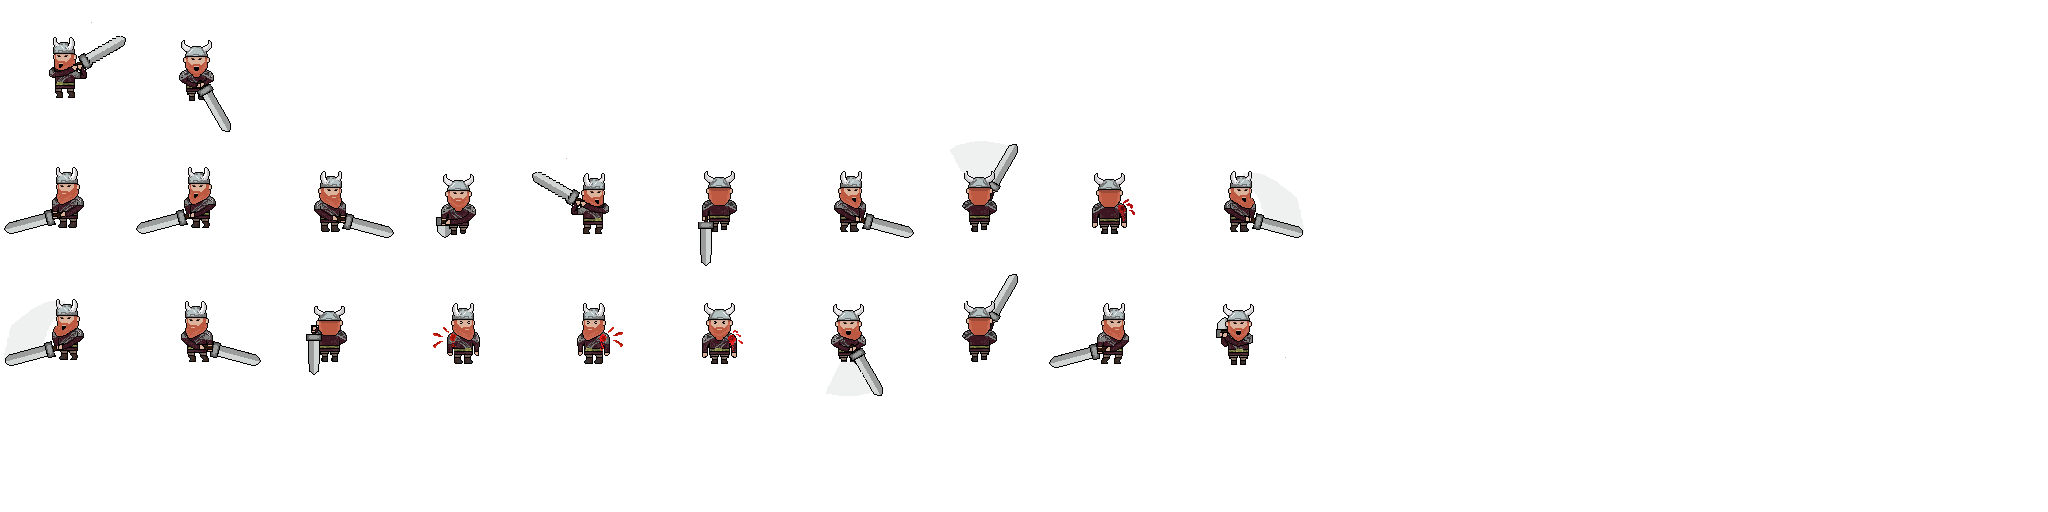
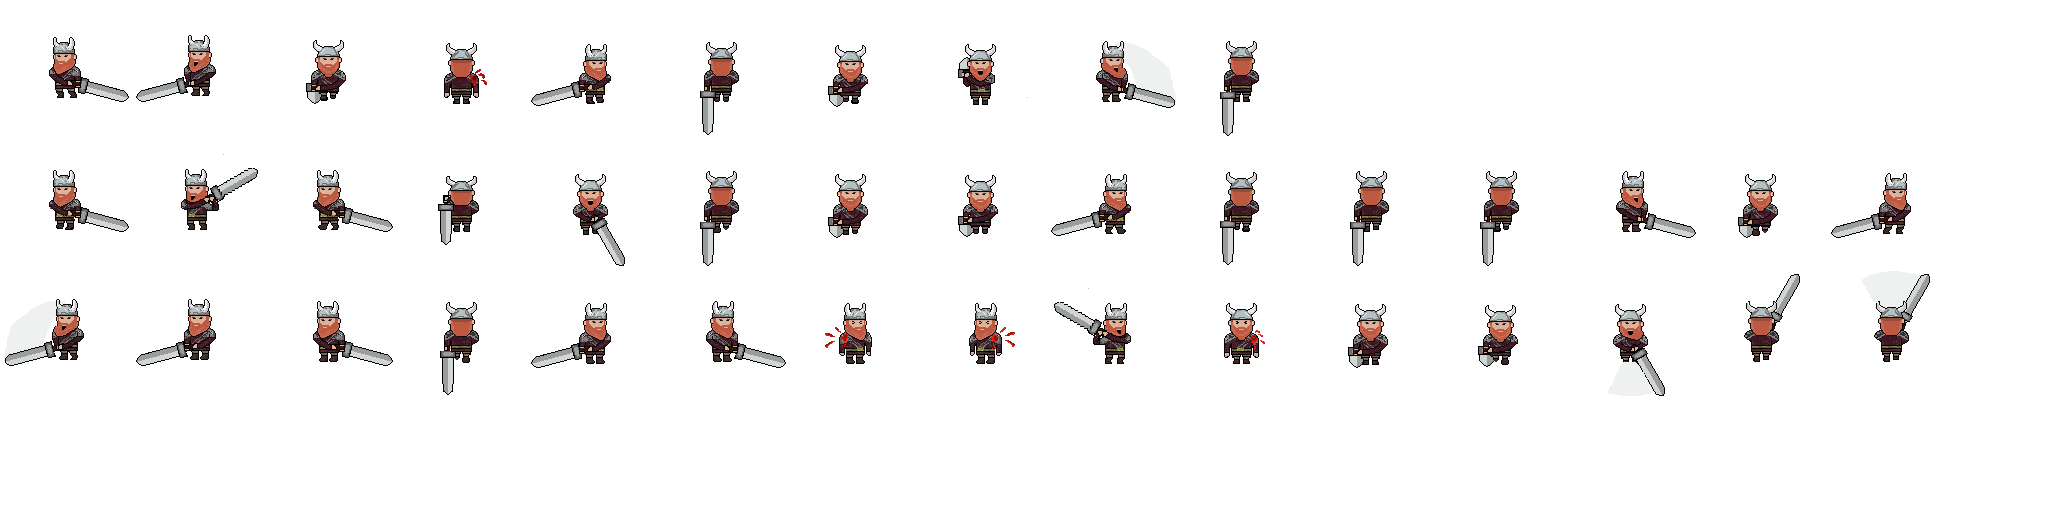
Added longsword walking animations. #254

diff --git a/source/core/src/main/com/deco2800/game/components/weapons/Longsword.java b/source/core/src/main/com/deco2800/game/components/weapons/Longsword.java
@@ -2,6 +2,7 @@ package com.deco2800.game.components.weapons;
 
 import com.badlogic.gdx.audio.Sound;
 import com.badlogic.gdx.math.Vector2;
+import com.deco2800.game.rendering.AnimationRenderComponent;
 import com.deco2800.game.services.ServiceLocator;
 
 public class Longsword extends MeleeWeapon {
@@ -21,5 +22,33 @@ public class Longsword extends MeleeWeapon {
                 getAsset("sounds/swish.ogg", Sound.class);
         impactSound = ServiceLocator.getResourceService()
                 .getAsset("sounds/impact.ogg", Sound.class);
+    }
+
+    /**
+     * Attacks, but also plays animation.
+     *
+     * @see MeleeWeapon
+     */
+    @Override
+    public void attack(int attackDirection) {
+        super.attack(attackDirection);
+        AnimationRenderComponent animator = entity.getComponent(AnimationRenderComponent.class);
+        if (animator == null) {
+            return;
+        }
+        switch (attackDirection) {
+            case UP:
+                animator.startAnimation("longsword_up");
+                break;
+            case DOWN:
+                animator.startAnimation("longsword_down");
+                break;
+            case LEFT:
+                animator.startAnimation("longsword_left");
+                break;
+            case RIGHT:
+                animator.startAnimation("longsword_right");
+                break;
+        }
     }
 }

diff --git a/source/core/src/main/com/deco2800/game/entities/factories/PlayerFactory.java b/source/core/src/main/com/deco2800/game/entities/factories/PlayerFactory.java
@@ -7,6 +7,7 @@ import com.deco2800.game.components.CombatStatsComponent;
 import com.deco2800.game.components.player.*;
 import com.deco2800.game.components.weapons.Axe;
 import com.deco2800.game.components.weapons.Hammer;
+import com.deco2800.game.components.weapons.Longsword;
 import com.deco2800.game.components.weapons.Scepter;
 import com.deco2800.game.entities.Entity;
 import com.deco2800.game.entities.configs.PlayerConfig;
@@ -113,6 +114,9 @@ public class PlayerFactory {
                     new Vector2(0.5f, 1f)));
         } else if (weapon.equals("Hammer")) {
             player.addComponent(new Hammer(PhysicsLayer.NPC, 10, 50,
+                    new Vector2(1f, 0.5f)));
+        } else if (weapon.equals("Longsword")) {
+            player.addComponent(new Longsword(PhysicsLayer.NPC, 10, 50,
                     new Vector2(1f, 0.5f)));
         } else { // Axe is default
             player.addComponent(new Axe(PhysicsLayer.NPC, 10, 50,

diff --git a/source/core/src/main/com/deco2800/game/components/player/PlayerActions.java b/source/core/src/main/com/deco2800/game/components/player/PlayerActions.java
@@ -6,10 +6,7 @@ import com.badlogic.gdx.Input;
 import com.badlogic.gdx.math.Vector2;
 import com.badlogic.gdx.physics.box2d.Body;
 import com.deco2800.game.components.Component;
-import com.deco2800.game.components.weapons.Axe;
-import com.deco2800.game.components.weapons.Hammer;
-import com.deco2800.game.components.weapons.MeleeWeapon;
-import com.deco2800.game.components.weapons.Scepter;
+import com.deco2800.game.components.weapons.*;
 import com.deco2800.game.physics.components.PhysicsComponent;
 import com.deco2800.game.services.ServiceLocator;
 import com.deco2800.game.utils.math.Vector2Utils;
@@ -118,6 +115,9 @@ public class PlayerActions extends Component {
         }
         if (weapon == null) {
             weapon = entity.getComponent(Scepter.class);
+        }
+        if (weapon == null) {
+            weapon = entity.getComponent(Longsword.class);
         }
         return weapon;
     }
